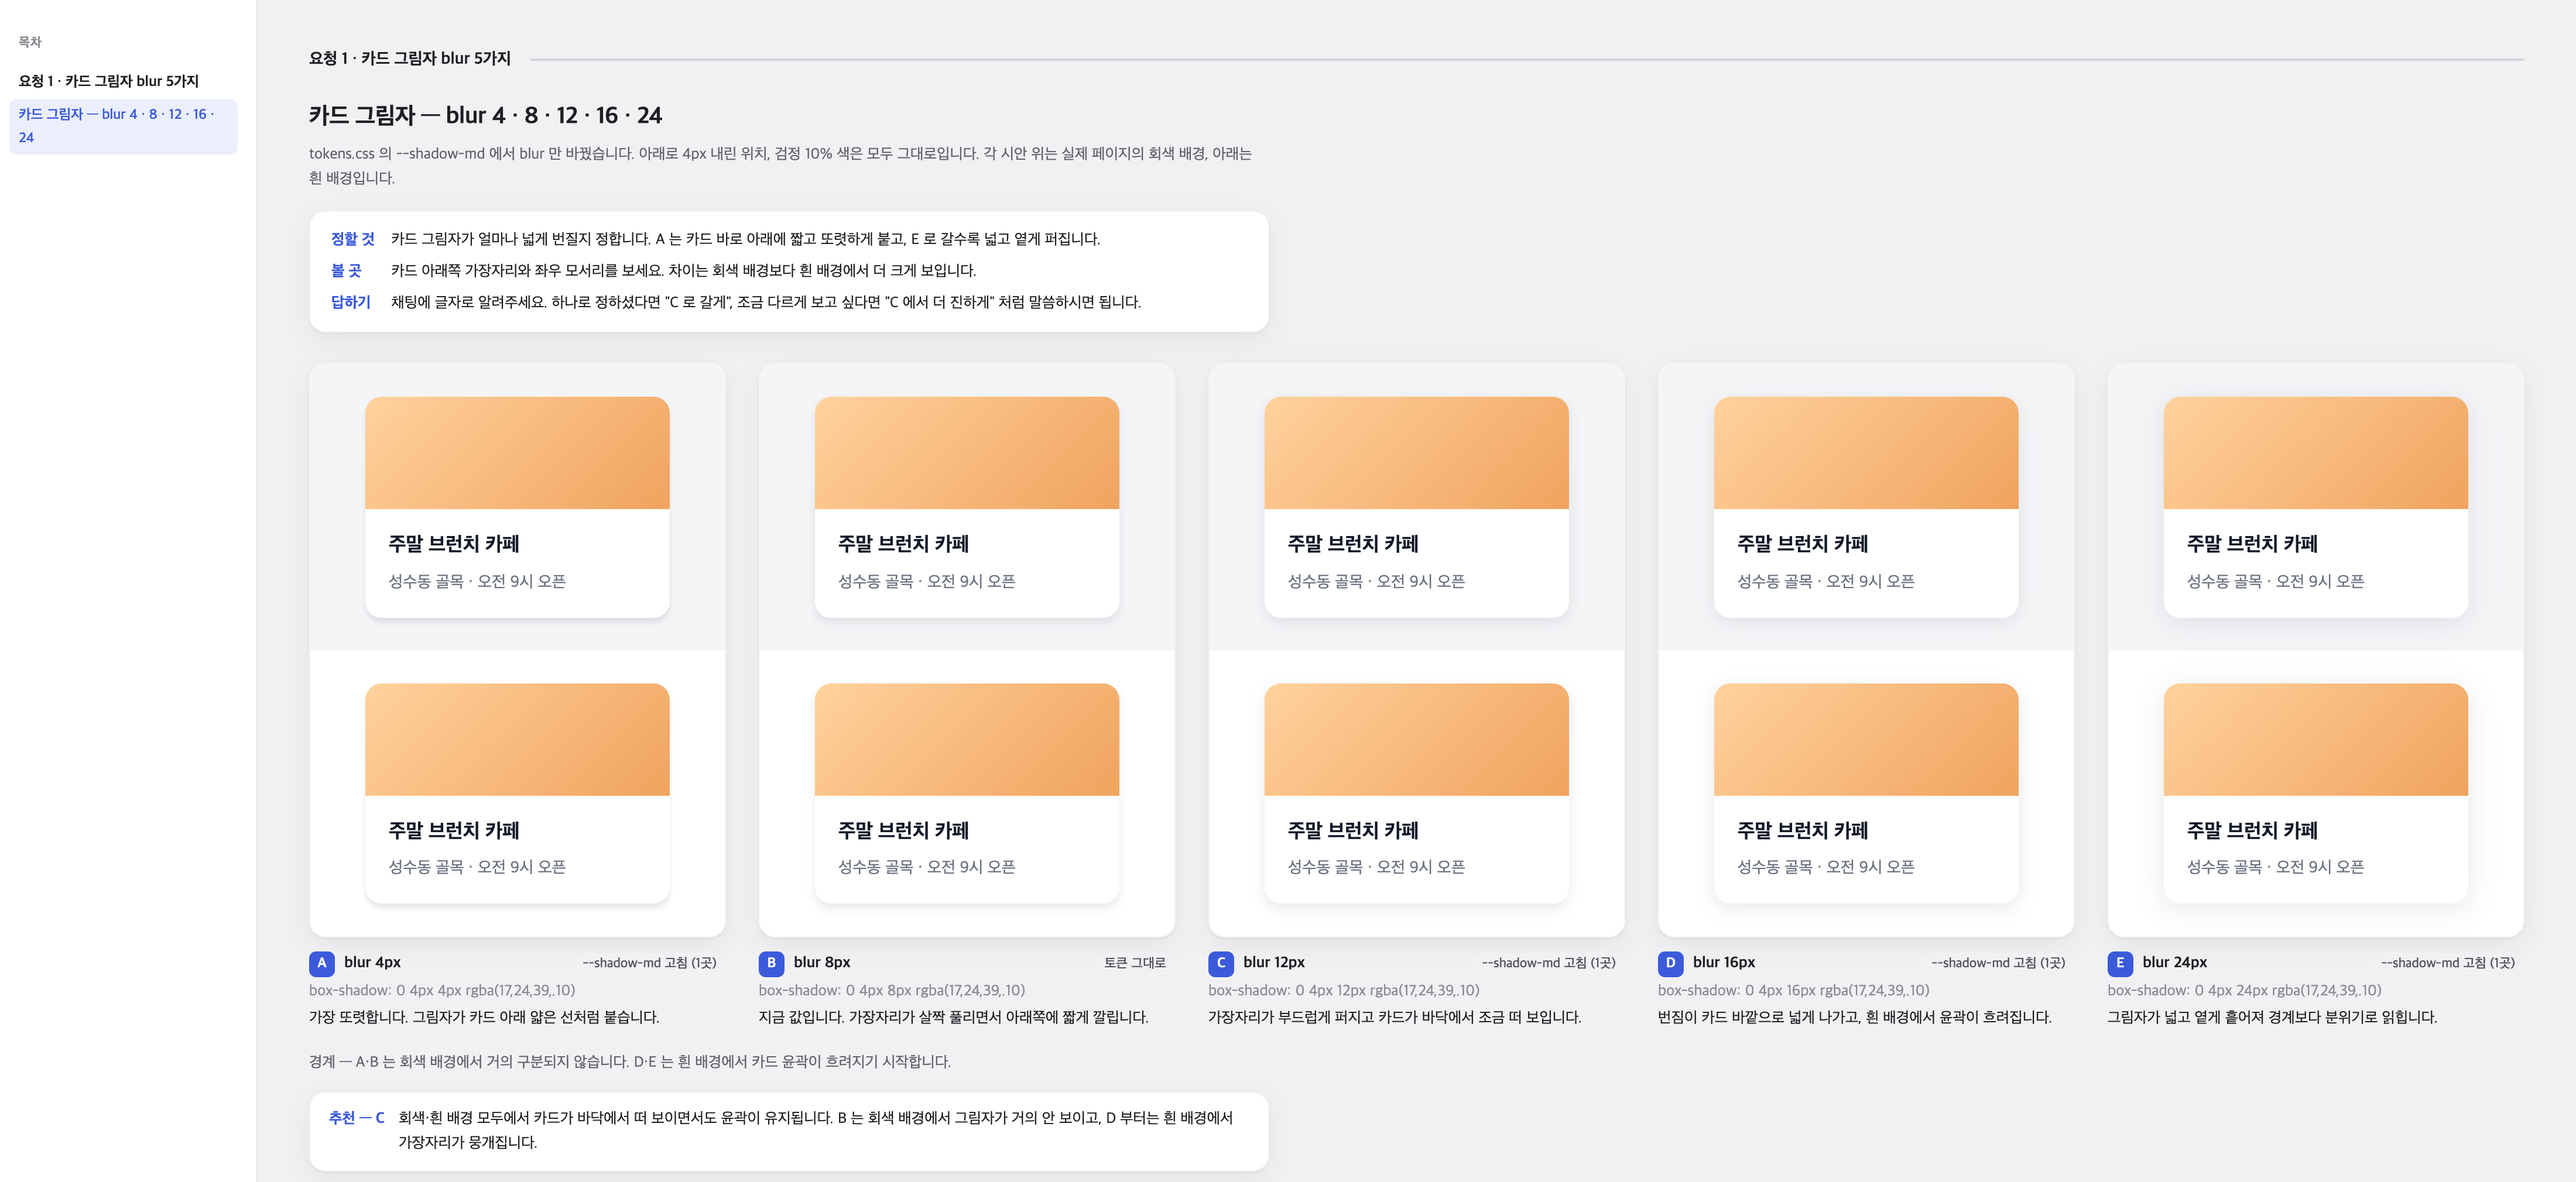
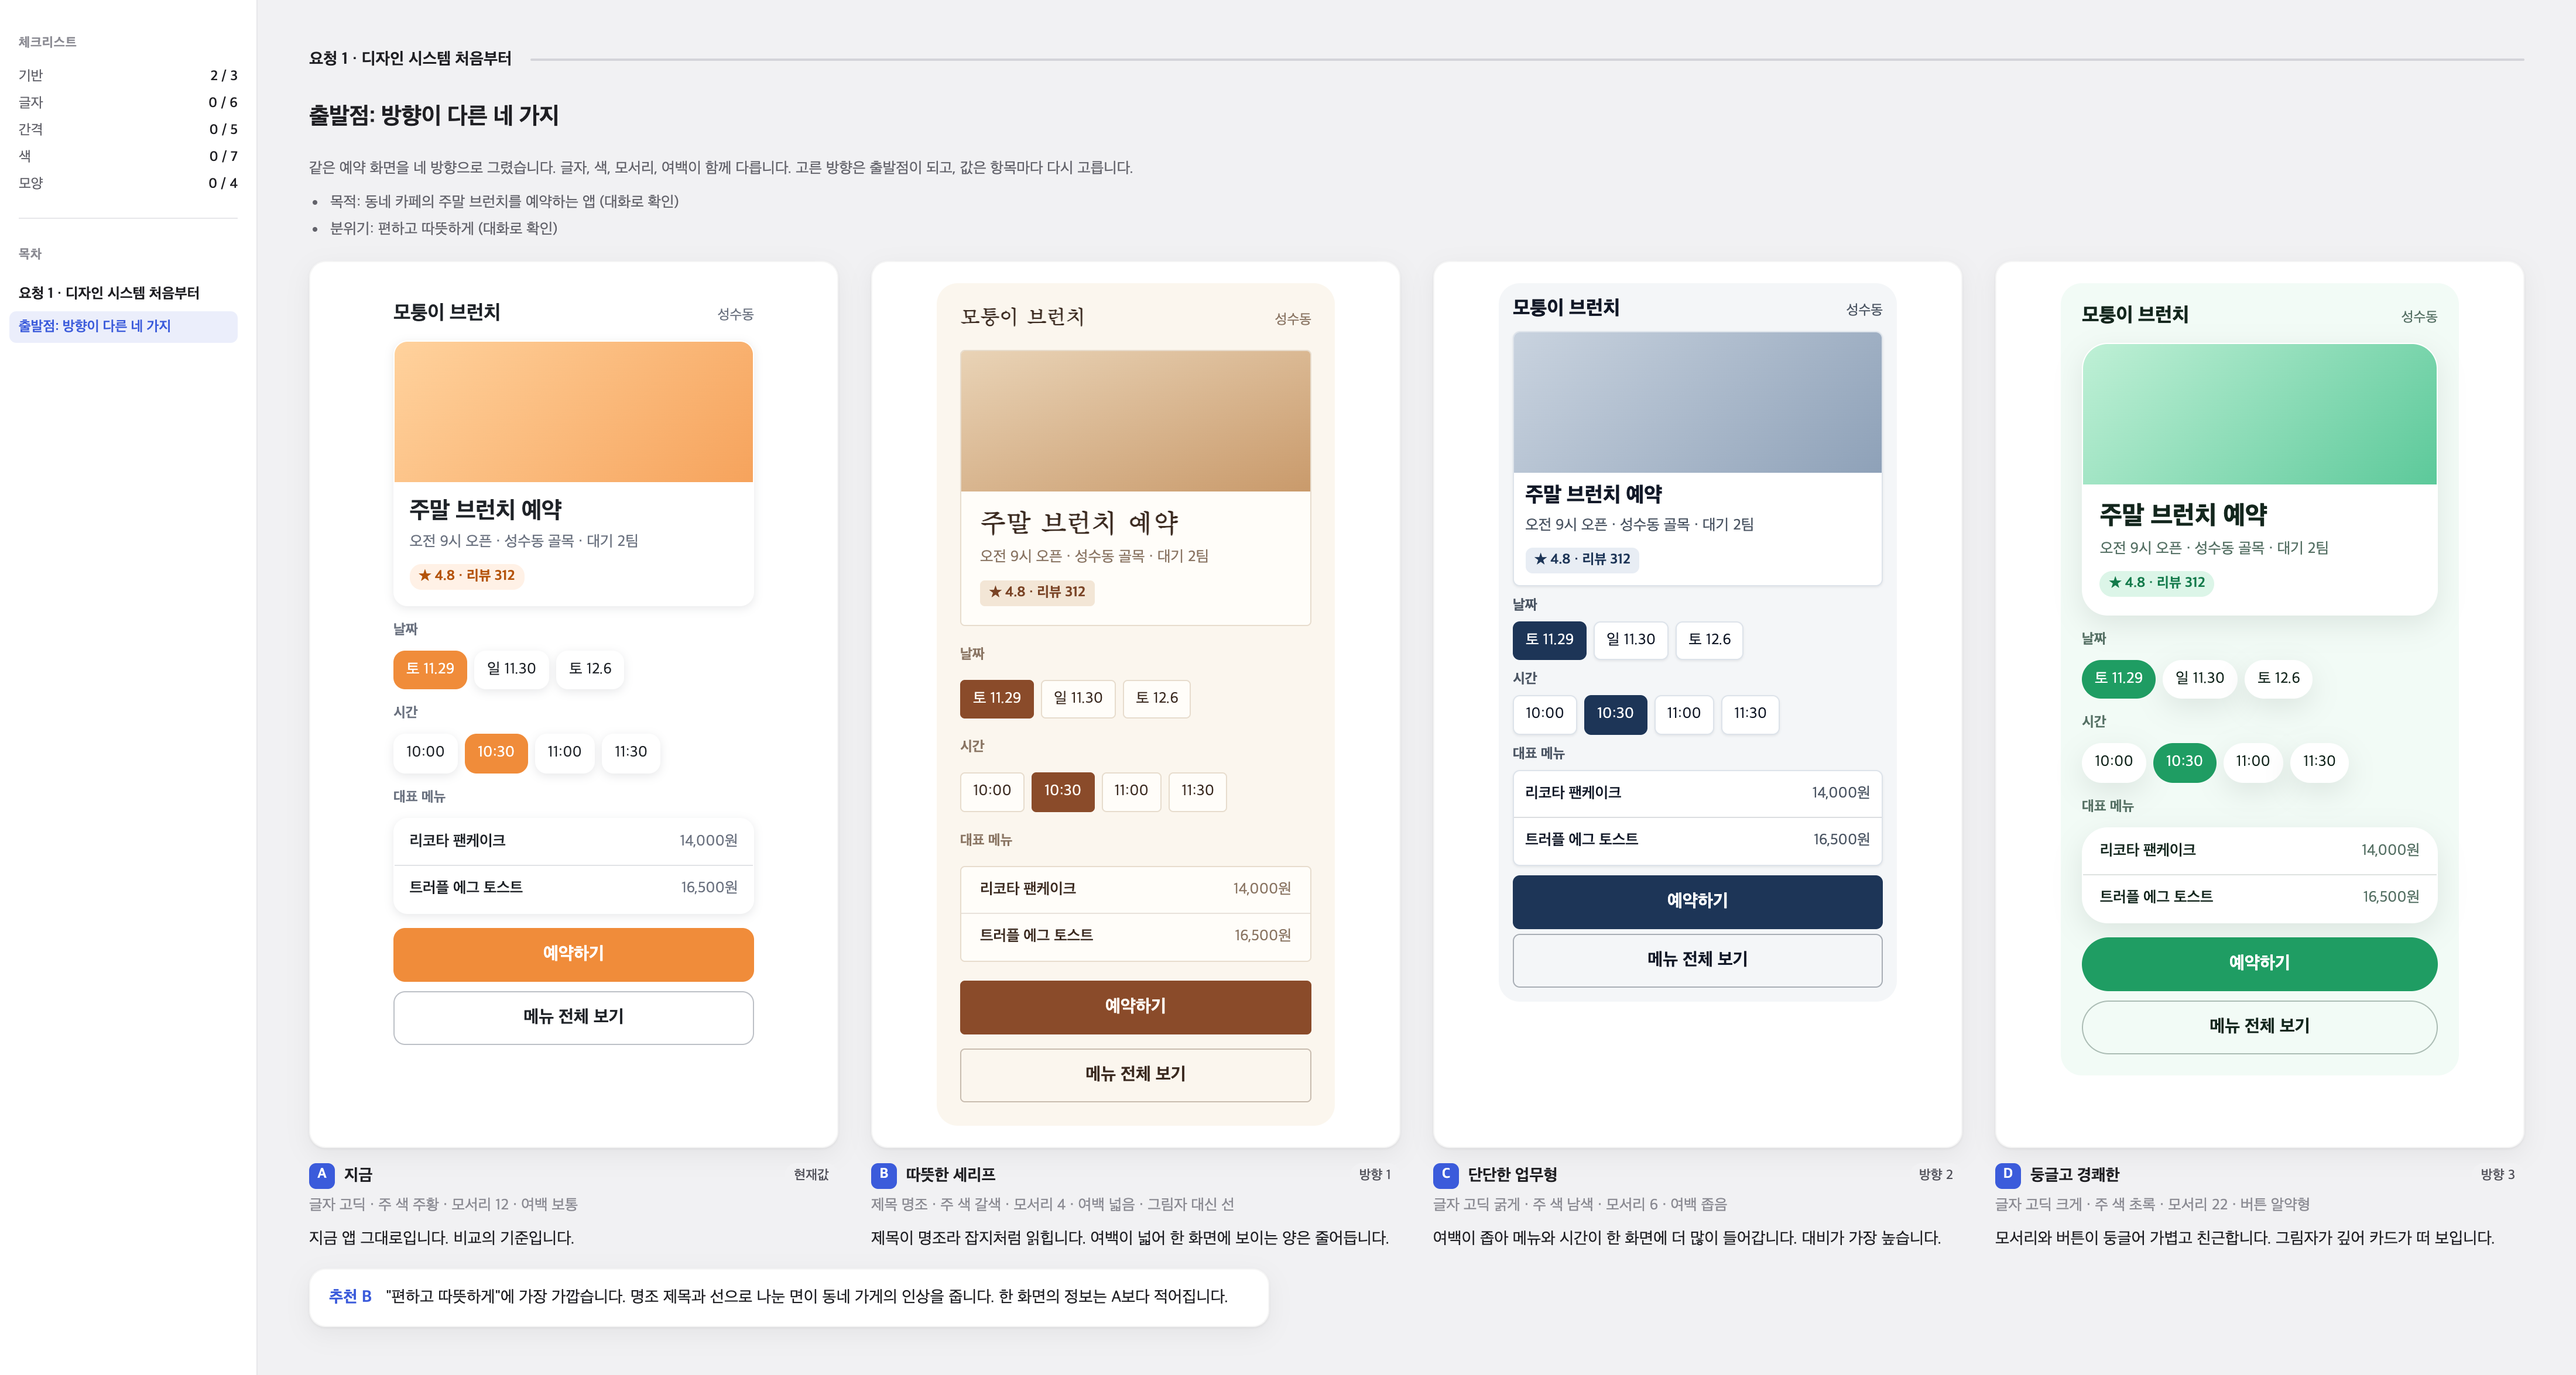
Show whole design directions in the README hero images
The hero images compared one CSS value (a card's shadow blur). They now show
design-system's first sheet: one booking screen drawn in four directions that
differ in type, color, corners and spacing, each caption naming what differs,
then the pick recorded as the starting point in design-decisions/README.md with
the AGENTS.md block, and the code untouched.

diff --git a/README.ko.md b/README.ko.md
@@ -7,13 +7,13 @@
 
 > 디자인 결정을 하나씩, 실제 화면 위에 그려 보고 고르게 하는 Claude Code·Codex 플러그인 (스킬 6개)
 
-**1. "5가지 보여줘": 후보를 비교합니다. 제품 코드는 그대로 둡니다.**
+**1. "디자인 시스템 처음부터 잡고 싶어": 같은 화면을 방향이 다른 디자인 네 가지로 그려 나란히 보여 줍니다. 시안마다 무엇이 다른지(글자, 색, 모서리, 여백) 적습니다.**
 
-![비교 시트: 카드 그림자 blur 5가지, A–E](assets/launch-before.png)
+![비교 시트: 카페 예약 화면을 방향이 다른 네 가지로 그린 출발점 A부터 D](assets/launch-before.png)
 
-**2. "C로 갈게": 선택한 값을 코드에 반영합니다.**
+**2. "B로 갈게": 고른 방향을 출발점으로 기록합니다. 그 위에서 글자, 색, 간격을 하나씩 다시 고릅니다. 코드는 그대로입니다.**
 
-![C 를 고른 뒤: blur 12px 이 적용된 카드와 tokens.css 변경](assets/launch-after.png)
+![B를 고른 뒤: 고른 화면, design-decisions/README.md 기록, AGENTS.md 안내 블록](assets/launch-after.png)
 
 ## 스킬 여섯 개
 

diff --git a/README.md b/README.md
@@ -10,13 +10,13 @@
 > [!NOTE]
 > Replies and every string on the comparison sheet are in **Korean**. See [Language](#language) to change that.
 
-**1. "Show me five options": Compare them while your project code stays untouched.**
+**1. "I want to set up a design system from scratch": the same screen is drawn in four different directions, side by side, each naming what differs (type, color, corners, spacing).**
 
-![Comparison sheet: the card's shadow blur in five versions, A–E](assets/launch-before.png)
+![Comparison sheet: a cafe booking screen drawn in four directions, starting points A to D](assets/launch-before.png)
 
-**2. "Go with C": Apply the chosen value to the code.**
+**2. "Go with B": the pick is recorded as the starting point, and type, color and spacing are then picked again one at a time. Your code stays as it is.**
 
-![After picking C: the card with blur 12px and the tokens.css diff](assets/launch-after.png)
+![After picking B: the chosen screen, the design-decisions/README.md record and the AGENTS.md block](assets/launch-after.png)
 
 ## Six skills
 
